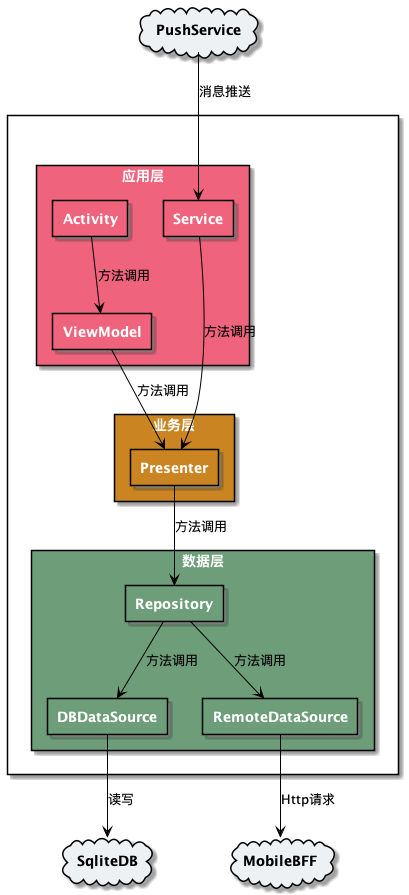
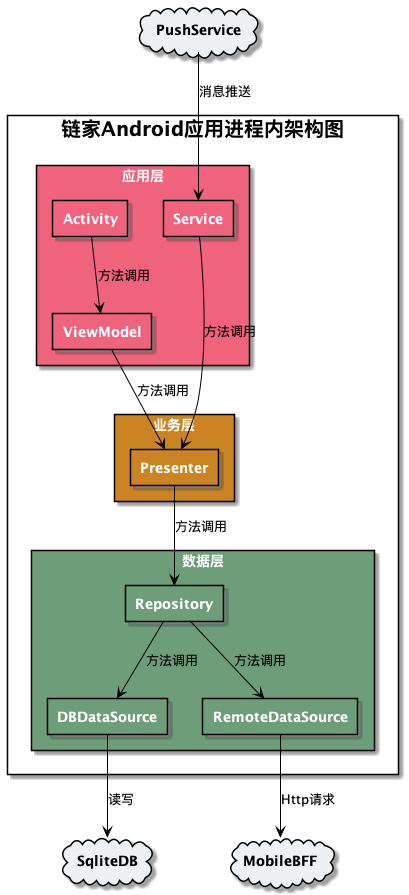
修复进程内和进程间架构图标题白色和底色一样看不见字体的问题

Changed region(s): [[0.1467, 0.1207, 0.8509, 0.181]]

diff --git a/src/main/kotlin/architecture/diagram_inter_process.kt b/src/main/kotlin/architecture/diagram_inter_process.kt
@@ -3,6 +3,7 @@ package architecture
 import architecture.dsl.inter_process.service
 import common.DSL
 import common.Diagram
+import common.Diagram.Color.BLACK
 import common.Diagram.Color.TRANSPARENT
 import common.Element
 import common.Element.Type.RECTANGLE
@@ -24,7 +25,7 @@ class diagram_inter_process(val name: String = "", function: diagram_inter_proce
     override fun buildPlantUmlString(): String = """
         |@startuml
         |skinparam rectangleFontColor white
-        |$RECTANGLE <size:20>$name {
+        |$RECTANGLE <size:20><color:black>$name {
         ${buildPlantUmlContent()}
         |}
         |@enduml

diff --git a/src/main/kotlin/architecture/diagram_intra_process.kt b/src/main/kotlin/architecture/diagram_intra_process.kt
@@ -45,7 +45,7 @@ class diagram_intra_process(val name: String = "", function: diagram_intra_proce
     }
 
     private fun buildPlantUmlContent(): String = buildString {
-        appendLine("$RECTANGLE <size:20>$name {")
+        appendLine("$RECTANGLE <size:20><color:black>$name {")
         layers.forEach {
             appendLine(it.toString())
         }
